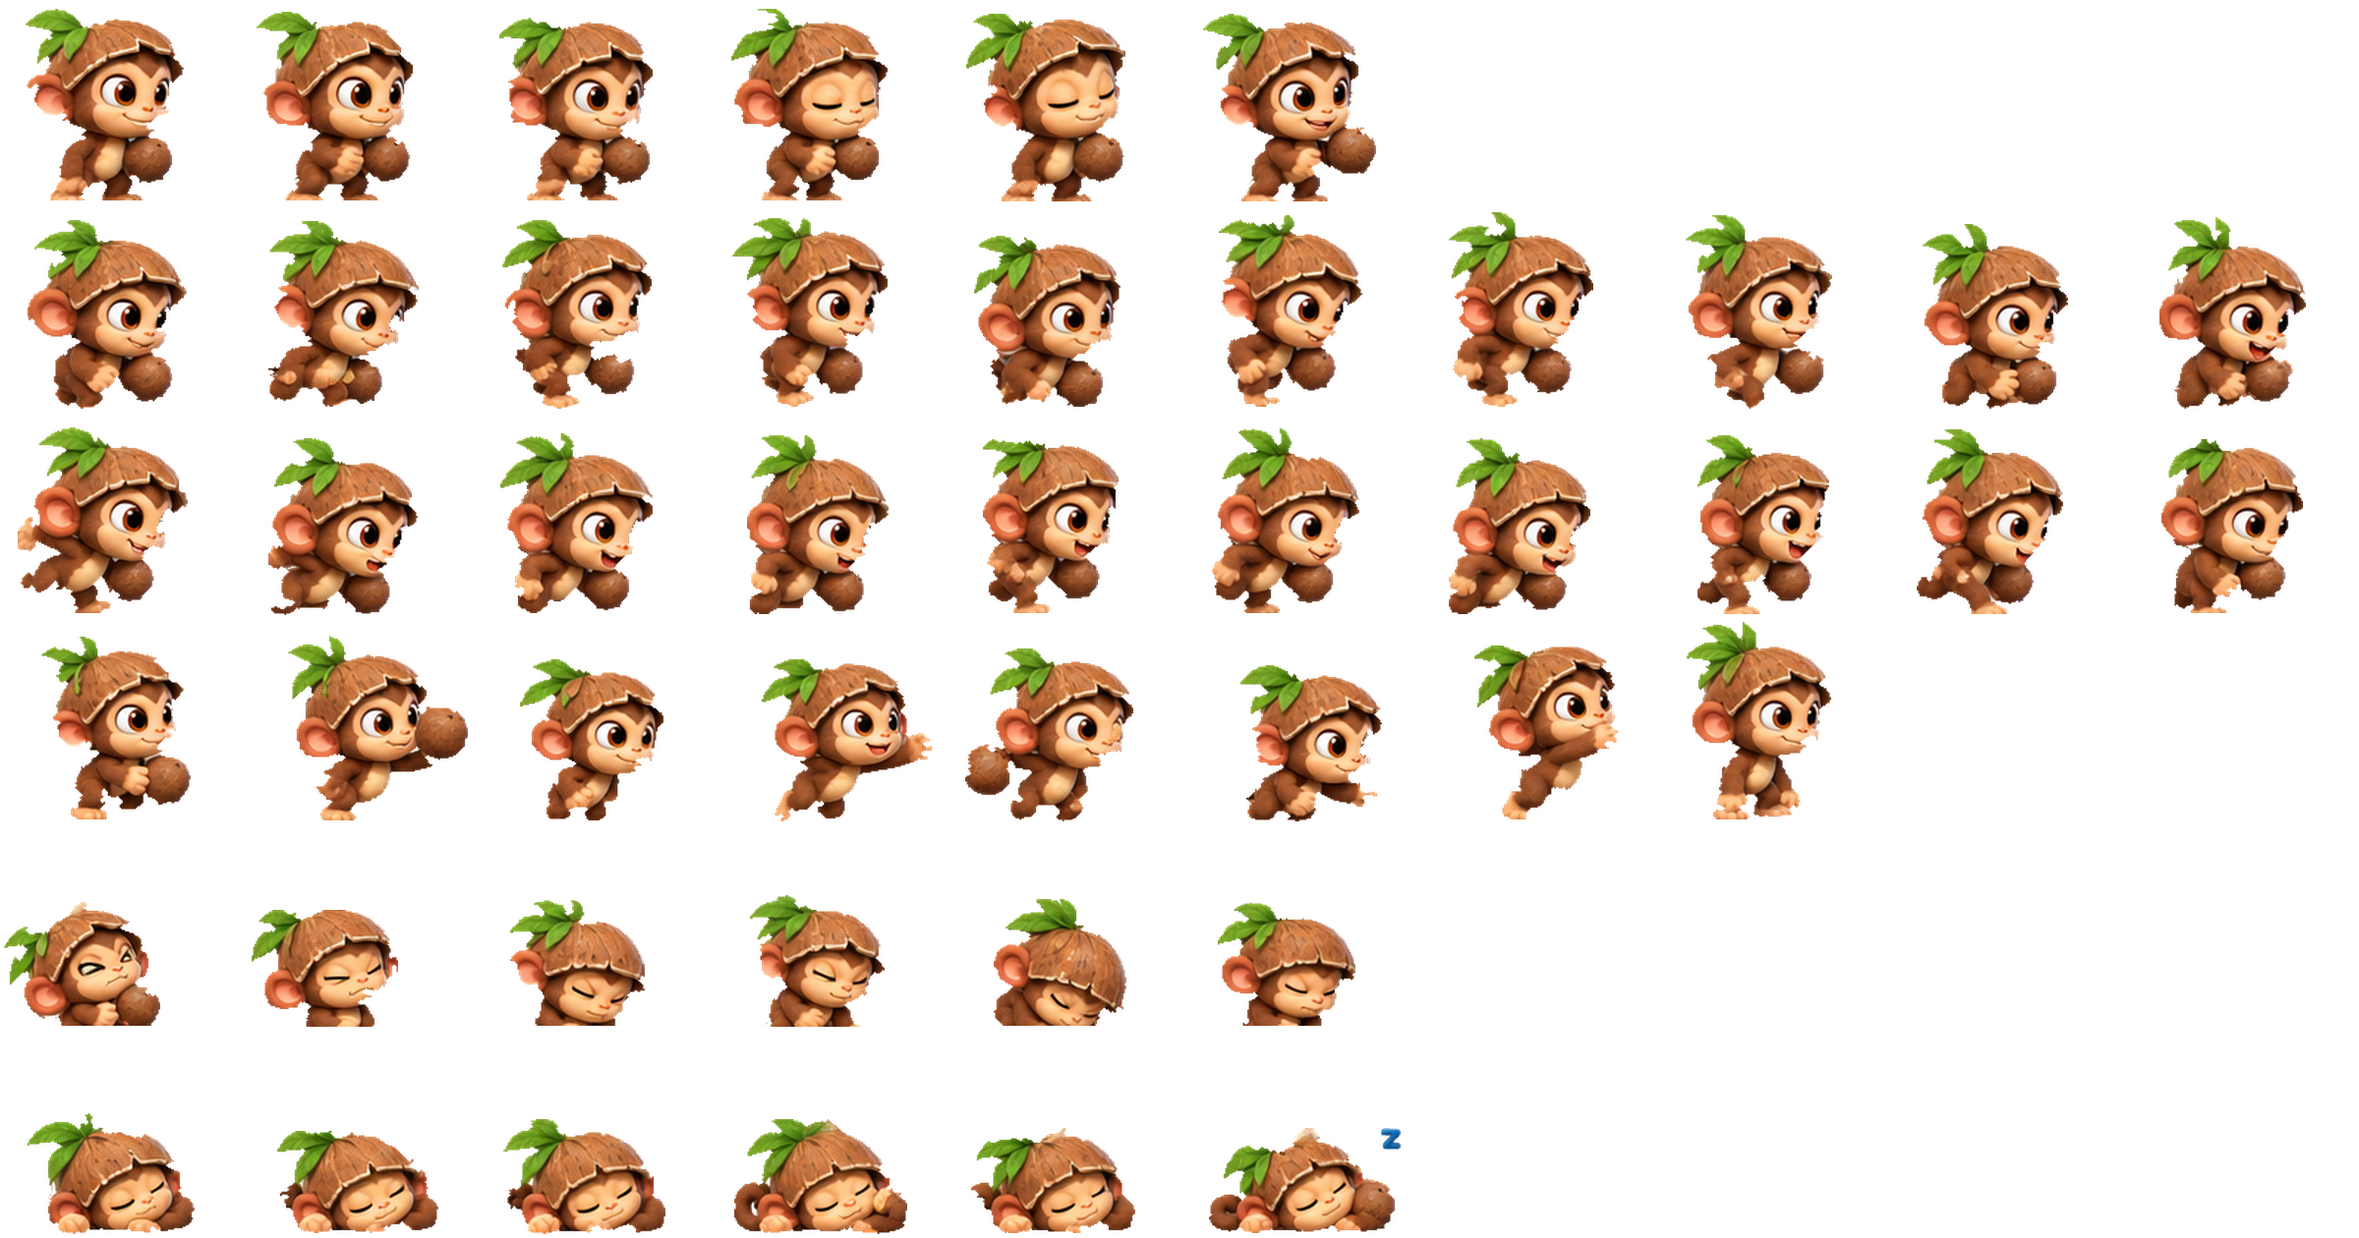
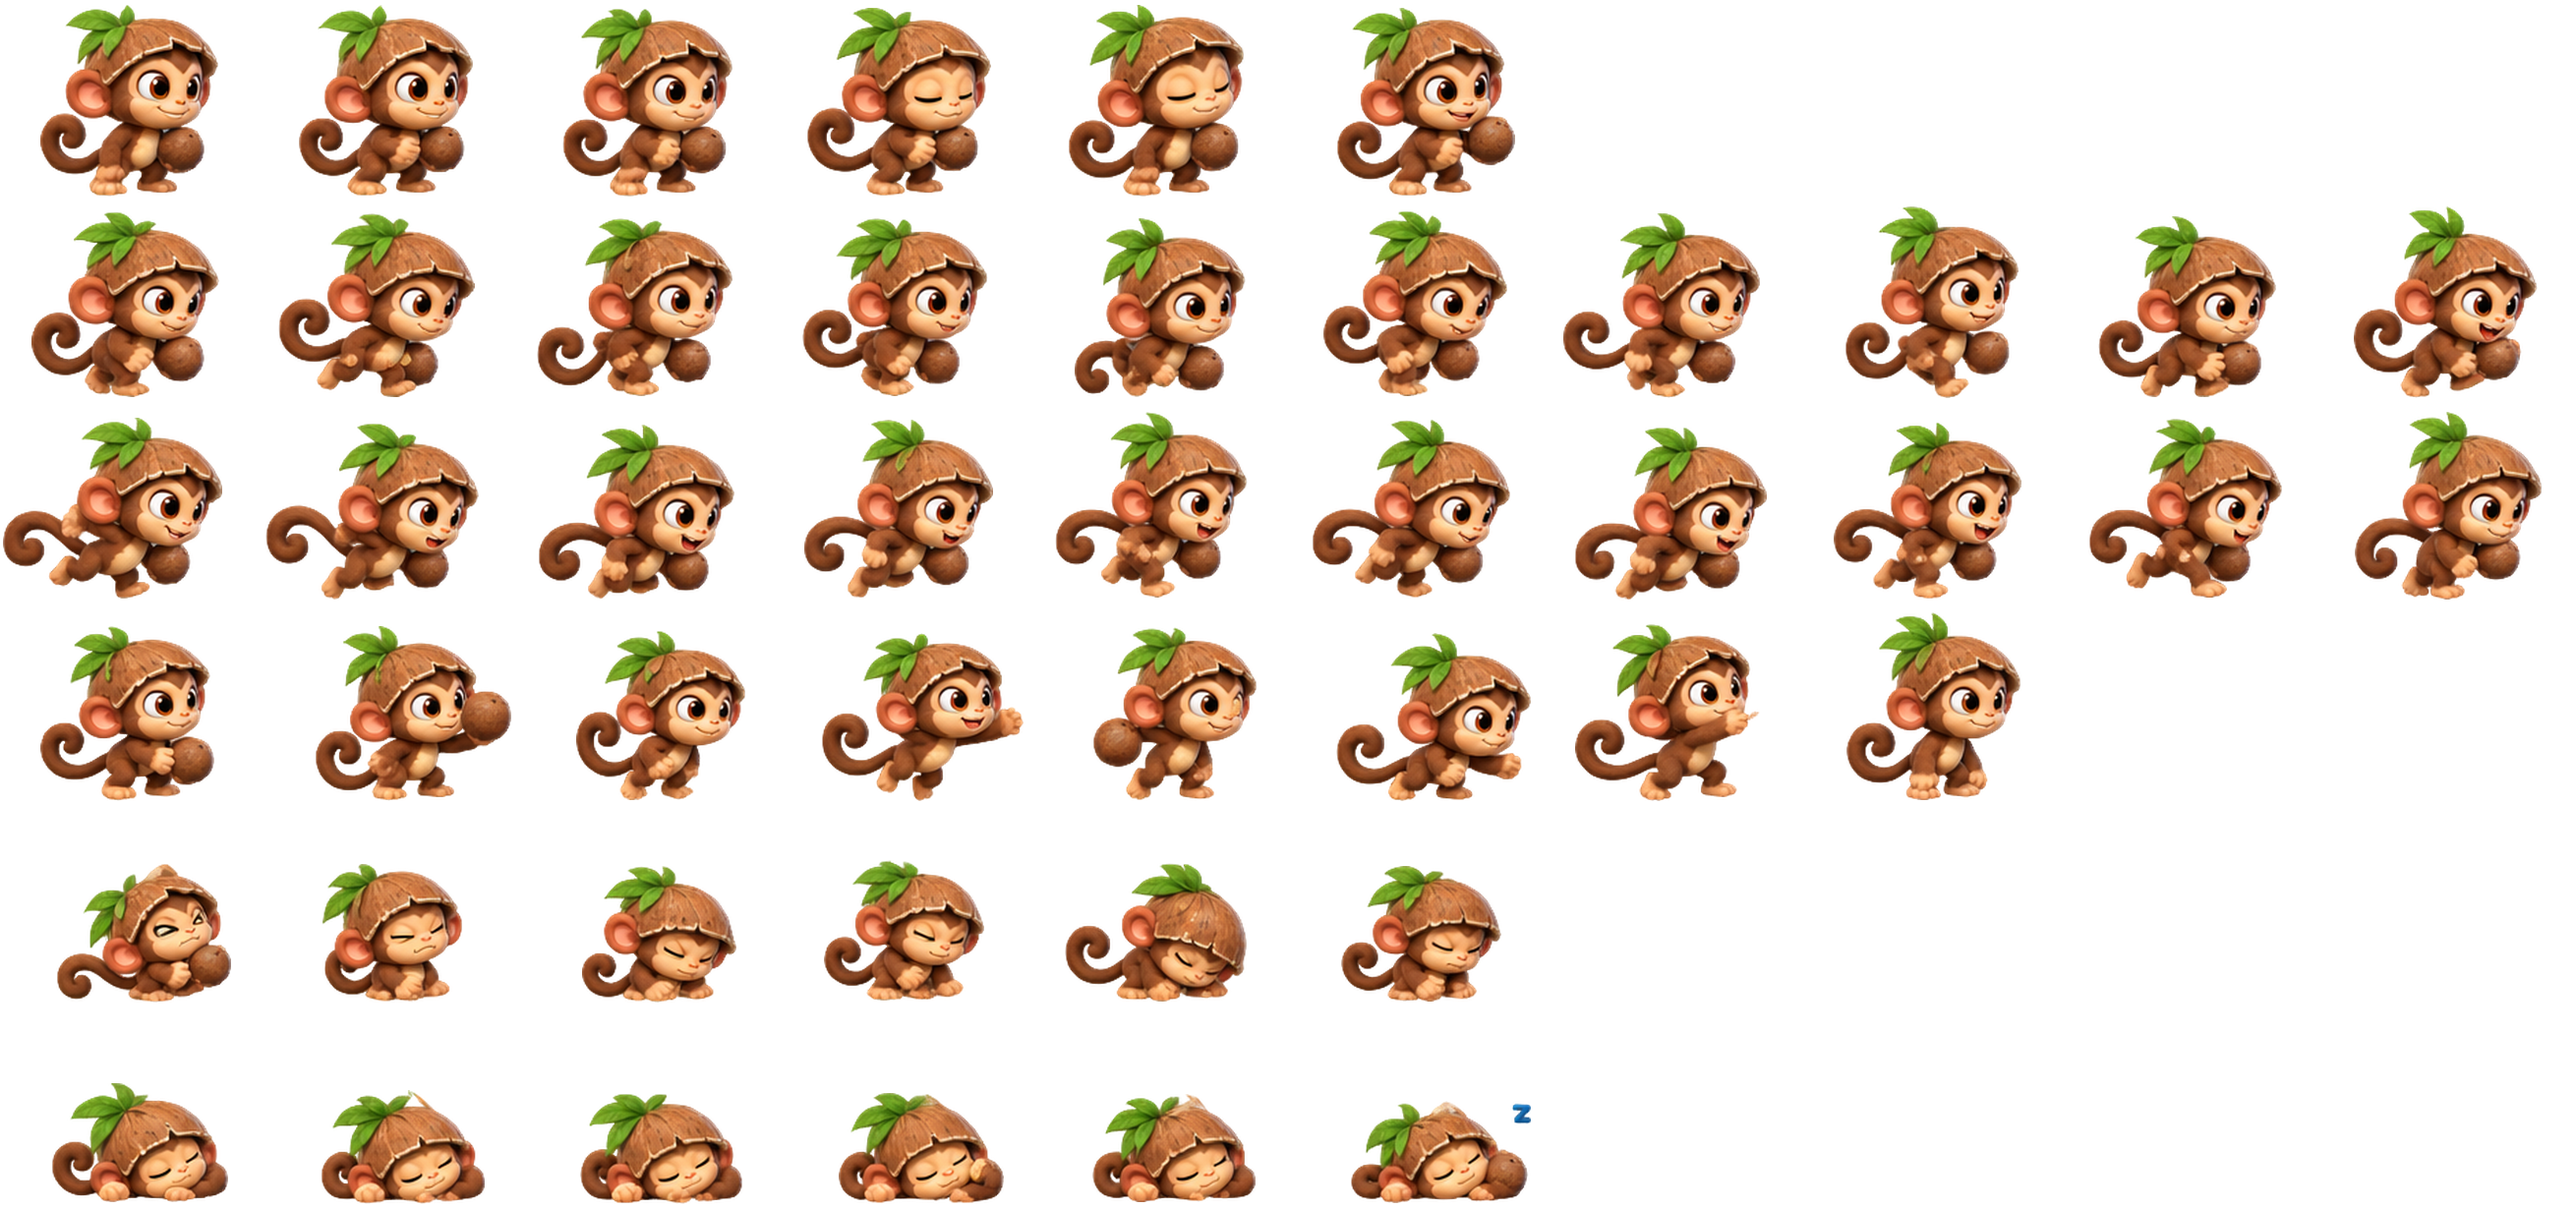
Hatchwild: fix Coco's cut-outs (tails and bodies were being cut off where poses touched); labelled sheets now split touching poses through the shape only
Claude-Session: https://claude.ai/code/session_01TTPpyuRjXFZd6BDuvJmyjm

diff --git a/prototypes/hatchwild/src.html b/prototypes/hatchwild/src.html
@@ -1026,8 +1026,8 @@ const ANIMS = {
   sparkfinch: {"cell":[313,296],"anchor":[157,204],"h":190,"idle":{"row":0,"n":10,"fps":5},"walk":{"row":1,"n":10,"fps":9},"fly":{"row":2,"n":8,"fps":12,"torso":1},"attack":{"row":3,"n":8,"fps":12},"hurt":{"row":4,"n":8,"fps":10},"nap":{"row":5,"n":9,"fps":4}},
 pebblet: {"cell":[333,213],"anchor":[174,207],"h":190,"idle":{"row":0,"n":8,"fps":5},"walk":{"row":1,"n":8,"fps":9},"nap":{"row":2,"n":4,"fps":4}},
   zippy: {"cell":[296,307],"anchor":[151,204],"h":190,"idle":{"row":0,"n":7,"fps":5},"walk":{"row":1,"n":8,"fps":9},"fly":{"row":2,"n":6,"fps":12,"torso":1},"nap":{"row":3,"n":1,"fps":4}},
-  coconeer: {"cell":[240,210],"anchor":[105,203],"h":190,"idle":{"row":0,"n":6,"fps":5},"walk":{"row":1,"n":10,"fps":9},"run":{"row":2,"n":10,"fps":12},"attack":{"row":3,"n":8,"fps":12},"hurt":{"row":4,"n":6,"fps":10},"nap":{"row":5,"n":6,"fps":4}},
-  puffling: {"cell":[245,201],"anchor":[130,195],"h":190,"idle":{"row":0,"n":7,"fps":5},"walk":{"row":1,"n":8,"fps":9},"run":{"row":2,"n":8,"fps":12},"nap":{"row":3,"n":5,"fps":4}},
+  coconeer: {"cell":[262,205],"anchor":[141,197],"h":190,"idle":{"row":0,"n":6,"fps":5},"walk":{"row":1,"n":10,"fps":9},"run":{"row":2,"n":10,"fps":12},"attack":{"row":3,"n":8,"fps":12},"hurt":{"row":4,"n":6,"fps":10},"nap":{"row":5,"n":6,"fps":4}},
+  puffling: {"cell":[241,203],"anchor":[130,196],"h":190,"idle":{"row":0,"n":7,"fps":5},"walk":{"row":1,"n":8,"fps":9},"run":{"row":2,"n":8,"fps":12},"nap":{"row":3,"n":5,"fps":4}},
 };
 const ANIM_IMG = {}; for (const k in ANIMS) { const im = new Image(); im.src = 'art/anims/' + k + '.png'; ANIM_IMG[k] = im; }
 const animReady = sp => { const im = ANIM_IMG[sp]; return im && im.complete && im.naturalWidth ? ANIMS[sp] : null; };

diff --git a/scripts/hatchwild-sheet.py b/scripts/hatchwild-sheet.py
@@ -83,39 +83,50 @@ def find_plain(img, cut=40):
       out.append(Pose(img[y0:y1, x0:x1] * m[y0:y1, x0:x1][..., None], x0, y0, r_i))
   return out, []
 
+def split_touching(comp, seeds):
+  # grow each seed outward through the shape only (never across empty space), so a pose keeps its own
+  # tail or ear even when it touches the pose next to it
+  lab = np.zeros(comp.shape, np.uint16)
+  for j, sd in enumerate(seeds): lab[sd] = j + 1
+  k = np.ones((3, 3), np.uint8)
+  for _ in range(400):
+    grown = cv2.dilate(lab, k); new = (lab == 0) & comp & (grown > 0)
+    if not new.any(): break
+    lab[new] = grown[new]
+  return [(lab == j + 1) for j in range(len(seeds))]
+
 def find_labeled(img):
-  # rows are marked by text pills at the left edge; poses may touch their neighbours
+  # rows are marked by text pills at the left edge. Each pose is its own shape on the sheet; where two
+  # poses touch, the shared shape is split between their bodies.
   a = img[..., 3] > 40; n, lab, st, _ = cv2.connectedComponentsWithStats(a.astype(np.uint8))
   labels = [i for i in range(1, n) if st[i][0] < 20 and st[i][2] > 60 and st[i][3] < 45]
   tops = sorted(int(st[i][1]) for i in labels); a = a & ~np.isin(lab, labels)
-  H = img.shape[0]; out, dropped = [], 0
-  for r, y0 in enumerate(tops):
-    y0 = max(0, y0 - 12); y1 = min(H, tops[r + 1] - 12) if r + 1 < len(tops) else H
-    band = a[y0:y1]; rgb = np.ascontiguousarray(img[y0:y1, :, :3])
-    core = cv2.erode(band.astype(np.uint8), np.ones((15, 15), np.uint8))
-    k, seeds, s2, _ = cv2.connectedComponentsWithStats(core)
-    ids = [i for i in range(1, k) if s2[i][4] > 1500]; markers = np.zeros(band.shape, np.int32)
-    for j, i in enumerate(ids): markers[seeds == i] = j + 2
-    markers[~cv2.dilate(band.astype(np.uint8), np.ones((3, 3), np.uint8)).astype(bool)] = 1
-    cv2.watershed(cv2.cvtColor(rgb, cv2.COLOR_RGB2BGR), markers)
-    regions = [(markers == j + 2) & band for j in range(len(ids))]
-    row = []
-    for j, m in enumerate(regions):
+  n, lab, st, _ = cv2.connectedComponentsWithStats(a.astype(np.uint8))
+  core = cv2.erode(a.astype(np.uint8), np.ones((15, 15), np.uint8))
+  k, sl, s2, cen = cv2.connectedComponentsWithStats(core)
+  seeds = [i for i in range(1, k) if s2[i][4] > 1500]
+  by_comp = {}
+  for i in seeds:
+    ys, xs = np.where(sl == i); by_comp.setdefault(int(lab[ys[0], xs[0]]), []).append(i)
+  poses = []
+  for c, sids in by_comp.items():
+    x, y, w, h, _ = st[c]; comp = lab[y:y + h, x:x + w] == c
+    parts = [comp] if len(sids) == 1 else split_touching(comp, [sl[y:y + h, x:x + w] == i for i in sids])
+    for sid, m in zip(sids, parts):
       if m.sum() < 5000: continue
-      ys, xs = np.where(m); box = (xs.min(), ys.min(), xs.max() + 1, ys.max() + 1)
-      others = np.zeros_like(m)
-      for jj, mm in enumerate(regions):
-        if jj != j: others |= mm
-      warn = []
-      if (cv2.dilate(m.astype(np.uint8), np.ones((5, 5), np.uint8)).astype(bool) & others).sum() > 40: warn.append('touched the pose next to it on the sheet; its edge there may be slightly cut')
-      if m[0].any() or m[-1].any(): warn.append('reaches into the row above or below; may be cut at the top or bottom')
-      m, d = keep_pieces(band & ~others, m, box); dropped += d
-      ys, xs = np.where(m); bx, by, bx1, by1 = xs.min(), ys.min(), xs.max() + 1, ys.max() + 1
-      px = img[y0 + by:y0 + by1, bx:bx1] * m[by:by1, bx:bx1][..., None]
-      row.append(Pose(px, bx, y0 + by, r, warn))
-    out += sorted(row, key=lambda p: p.X)
-  notes = []
-  return out, notes
+      cy = cen[sid][1]; row = max([r for r, t in enumerate(tops) if t - 30 <= cy] or [0])
+      warn = ['touched the pose next to it on the sheet; split along the narrowest join'] if len(sids) > 1 else []
+      poses.append((row, cen[sid][0], m, x, y, warn))
+  out = []
+  for row, cx, m, x, y, warn in sorted(poses, key=lambda p: (p[0], p[1])):
+    full = np.zeros(a.shape, bool); ys, xs = np.where(m); full[ys + y, xs + x] = True
+    bx, by_, bx1, by1 = xs.min() + x, ys.min() + y, xs.max() + x + 1, ys.max() + y + 1
+    full, _ = keep_pieces(a & ~(np.isin(lab, list(by_comp)) & ~full), full, (bx, by_, bx1, by1))
+    ys, xs = np.where(full); bx, by_, bx1, by1 = xs.min(), ys.min(), xs.max() + 1, ys.max() + 1
+    out.append(Pose(img[by_:by1, bx:bx1] * full[by_:by1, bx:bx1][..., None], bx, by_, row, warn))
+  from collections import Counter
+  print('rows:', [c for _, c in sorted(Counter(p.row for p in out).items())], file=sys.stderr)
+  return out, []
 
 def clean(px):
   # the artwork stays as drawn, glows included. Only the outer 2px rim, where AI tools leave a coloured
